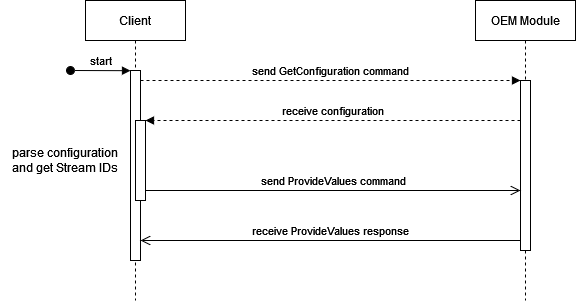
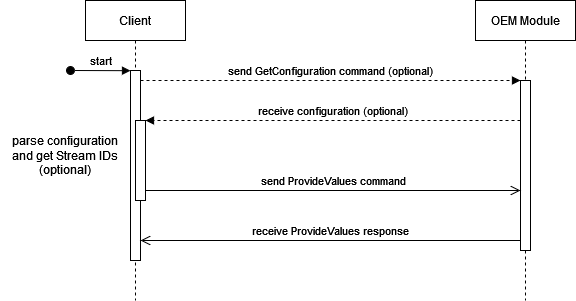
review

Changed region(s): [[0.0, 0.4485, 0.2188, 0.598], [0.4062, 0.2093, 0.75, 0.2691], [0.4375, 0.3588, 0.7188, 0.3887]]

diff --git a/README.md b/README.md
@@ -9,31 +9,29 @@ Tributech OEM Module API is a C library to use the OEM Module UART API in a simp
 # API
 
 ## get configuration
-To receive the oem module configuration with all streams you have to send the GetConfiguration command.
+To receive the oem module configuration with all streams you have to build the GetConfiguration command.
 ```C
 int build_get_configuration(char * result, char * transaction_id);
 ```
-* The parameter 'result' is the build string command which must be send via uart to the oem module.
+* The parameter 'result' is the build string  which must be send to the oem module via uart.
 * The parameter 'transaction_id' is the transaction id.
 * The return value is '1' if success or '0' if the transaction_id is wrong.
 
-To convert from base64 to plain the following function is used:
-
 ## provide values
-To send a stream value to the oem module you have to send the provideValues command.
+To send a stream value to the oem module you have to build the provideValues command.
 ```C
 int build_provide_values(char * result, char * transaction_id, char * id, char * data, char * timestamp);
 ```
-* The parameter 'result' is the build string command which must be send via uart to the oem module.
+* The parameter 'result' is the build string which must be send to the oem module via uart.
 * The parameter 'transaction_id' is the transaction id.
-* The parameter 'id' is the valueMetaDataId of the stream.
-* The parameter 'data' is the BASE64 string of the value.
+* The parameter 'id' is the valueMetaDataId of the stream (Stream ID).
+* The parameter 'data' is the BASE64 encoded string of the value.
 * The parameter 'timestamp' is the timestamp. If '0' then the oem module uses it's own actual time.
 * The return value is '1' if success or '0' if the timestamp is wrong.
 
 ## parse and save received configuration
-To save the configuration you have to execute this command for parsing and saving the configuration from the response.
-This command only has to be executed if the 'get_valueMetaDataId' command is used.
+To save the configuration you have to execute this function for parsing and saving the configuration from the response.
+Use this function if you want to use the 'get_valueMetaDataId' function, otherwise you don't need it.
 ```C
 uint8_t parse_oem_response_save_configuration(char * data, uint16_t cmd_len);
 ```
@@ -42,7 +40,7 @@ uint8_t parse_oem_response_save_configuration(char * data, uint16_t cmd_len);
 * The return value is '1' if success or '0' if error.
 
 ## parse and save received configuration
-This command searches in the saved configuration for the stream name and returns the stream id.
+This function searches in the saved configuration for the stream name and returns the stream id.
 ```C
 uint8_t get_valueMetaDataId(char * stream_name, char * id);
 ```
@@ -50,14 +48,14 @@ uint8_t get_valueMetaDataId(char * stream_name, char * id);
 * The parameter 'id' is the valueMetaDataId of the stream.
 * The return value is '1' if success or '0' if error.
 
-## parse and save received configuration
+## increase the transaction number
 This functions increases the 'transaction_nr_dec' by one and converts it to string 'transaction_nr_string'.
 ```C
 void increase_transaction_nr(void);
 ```
 
 ## lowercase and uppercase string
-These function converts uppercase letters to lowercase and lowercase letters to uppercase.
+These functions convert uppercase letters to lowercase and lowercase letters to uppercase.
 ```C
 char * to_lower_case(char * text);
 char * to_upper_case(char * text);
@@ -73,21 +71,24 @@ uint32_t min2_uint32_t (uint32_t value1, uint32_t value2);
 * The parameters 'value1' and 'value2' are the values which will be compared.
 * Returns the minimum value of the two.
 
-## example without parsing the configuration for stream ids
+## example without parsing the configuration
+This example code sends every 10 seconds the temperature value to the oem module.
 ```C
+#include "base64.h"
+#include "tributech_oem_api.h"
+
 int main(void)
 {
 	time_t last_command_sent;
 
 	char *base64_string;      			// pointer to base64 string
 	char *provide_values_message;		// provide values output message
-	float temperature = 15.5;
-	bool send_temperature_next = true;
+	float temperature = 15.5;			// temperature value
 	
 	while(1U)
 	{
 		//++++++++++++++++++++++++++++++++++++++++++++++++++++
-		// ids received -> publish values
+		// publish values every 10 seconds
 		if(last_command_sent + 10 < get_time())
 		{
 			//++++++++++++++++++++++++++++++++++++++++++++++++++++
@@ -95,17 +96,21 @@ int main(void)
 			increase_transaction_nr();
 
 			//++++++++++++++++++++++++++++++++++++++++++++++++++++
-			// build base64 string from value and build send string
-			provide_values_message = calloc(200,sizeof(char));
+			// build base64 string from value
 			base64_string = calloc(20,sizeof(char));
-			
 			bintob64(base64_string,&temperature, sizeof(float));
+			
+			//++++++++++++++++++++++++++++++++++++++++++++++++++++
+			// build ProvideValues command
+			provide_values_message = calloc(200,sizeof(char));
 			build_provide_values(provide_values_message,transaction_nr_string,"3b619323-7a61-465b-88df-24297efd5dda",base64_string,"0");
 
 			//++++++++++++++++++++++++++++++++++++++++++++++++++++
-			// output via uart
+			// send command via uart
 			uart_output(&UART_OEM,provide_values_message);
 
+			//++++++++++++++++++++++++++++++++++++++++++++++++++++
+			// release memory
 			delay_ms(100);
 			free(base64_string);
 			free(provide_values_message);
@@ -120,7 +125,11 @@ int main(void)
 ```
 
 ## example with parsing the configuration for stream ids
+This example code sends every 10 seconds the temperature or pressure value to the oem module.
 ```C
+#include "base64.h"
+#include "tributech_oem_api.h"
+
 int main(void)
 {
 	time_t last_command_sent;
@@ -163,7 +172,7 @@ int main(void)
 			}
 		}
 		//++++++++++++++++++++++++++++++++++++++++++++++++++++
-		// ids received -> publish values
+		// ids received -> publish values every 10 seconds
 		else if(last_command_sent + 10 < get_time() && stream_ids_received)
 		{
 			//++++++++++++++++++++++++++++++++++++++++++++++++++++
@@ -171,29 +180,35 @@ int main(void)
 			increase_transaction_nr();
 
 			//++++++++++++++++++++++++++++++++++++++++++++++++++++
-			// build base64 string from value and build send string
+			// alloc base64 string and provideValues string in memory
+			base64_string = calloc(20,sizeof(char));
 			provide_values_message = calloc(200,sizeof(char));
+			
+			//++++++++++++++++++++++++++++++++++++++++++++++++++++
+			// send temperature or pressure
 			if (send_temperature_next)
 			{
-				base64_string = calloc(20,sizeof(char));
 				bintob64(base64_string,&temperature, sizeof(float));
+			
 				build_provide_values(provide_values_message,transaction_nr_string,valuemetadataid_temperature,base64_string,"0");
 
 				send_temperature_next = false;
 			}
 			else
 			{
-				base64_string = calloc(20,sizeof(char));
 				bintob64(base64_string,&pressure, sizeof(float));
+				
 				build_provide_values(provide_values_message,transaction_nr_string,valuemetadataid_pressure,base64_string,"0");
 
 				send_temperature_next = true;
 			}
 
 			//++++++++++++++++++++++++++++++++++++++++++++++++++++
-			// send via uart
+			// send command via uart
 			uart_output(&UART_OEM,provide_values_message);
 
+			//++++++++++++++++++++++++++++++++++++++++++++++++++++
+			// release memory
 			delay_ms(100);
 			free(base64_string);
 			free(provide_values_message);
@@ -219,6 +234,14 @@ int main(void)
 		}
 	}
 }
-	
-	
+```
+## Base boards example projects
+Base boards:
+
+- [Nordic nRF52840-DK](https://github.com/tributech-solutions/tributech-oem-module-iot-kit-examples/tree/main/examble-nordic-nRF52840)
+- [Infineon XMC4700 Relax Kit](https://github.com/tributech-solutions/tributech-oem-module-iot-kit-examples/tree/main/example-infineon-xmc4700)
+- [Arduino UNO R3](https://github.com/tributech-solutions/tributech-oem-module-iot-kit-examples/tree/main/example-arduino-unoR3)
+
+For further information about the Tributech OEM module please visite our documentation homepage [docs.tributech.io](https://docs.tributech.io/docs/oem_module/overview).
+
 				  
